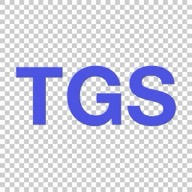
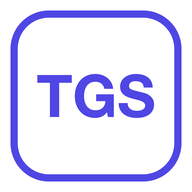
PWA v2.3.6: App-Symbol deckend weiss

diff --git a/index.html b/index.html
@@ -794,7 +794,15 @@
                     </button>
                 </div>
                 <div class="p-6 overflow-y-auto custom-scrollbar space-y-4 text-sm text-slate-600 leading-relaxed">
-                    <p class="text-xs text-slate-400">Kurzfassung der Änderungen. Aktuelle Version: <span class="font-bold text-slate-600">v2.3.5</span>.</p>
+                    <p class="text-xs text-slate-400">Kurzfassung der Änderungen. Aktuelle Version: <span class="font-bold text-slate-600">v2.3.6</span>.</p>
+                    <div>
+                        <div class="flex items-baseline gap-2"><span class="font-extrabold text-indigo-700">v2.3.6</span><span class="text-xs font-bold text-slate-400">02.09.2026</span></div>
+                        <ul class="list-disc pl-5 mt-1 space-y-0.5">
+                            <li><b>Sauberes App-Symbol.</b> Das TGS-Zeichen auf dem Homescreen, auf dem Schreibtisch und im Ladebildschirm hat jetzt einen deckend wei&#223;en Hintergrund. Die alten Symbole waren Bildschirmfotos &#8211; das graue Karomuster des Bildbetrachters steckte als Pixel darin.</li>
+                            <li>Der Ladebildschirm der installierten App ist ebenfalls wei&#223; statt hellgrau, damit das Symbol nicht als Kachel darauf sitzt.</li>
+                            <li><b>Hinweis:</b> Bereits installierte Apps behalten das alte Symbol oft, bis sie einmal entfernt und neu abgelegt werden &#8211; das entscheidet das Betriebssystem, nicht die App.</li>
+                        </ul>
+                    </div>
                     <div>
                         <div class="flex items-baseline gap-2"><span class="font-extrabold text-indigo-700">v2.3.5</span><span class="text-xs font-bold text-slate-400">02.09.2026</span></div>
                         <ul class="list-disc pl-5 mt-1 space-y-0.5">
@@ -1097,7 +1105,7 @@
                             </svg>
                         </button>
                     </h1>
-                    <p class="text-xs text-slate-400 mt-2 uppercase tracking-widest font-bold">Sek I <button onclick="openChangelog()" class="text-slate-300 normal-case tracking-normal font-semibold hover:text-indigo-600 cursor-pointer underline decoration-dotted underline-offset-2 transition-colors" title="Was ist neu? Changelog &amp; Kontakt">· v2.3.5</button></p>
+                    <p class="text-xs text-slate-400 mt-2 uppercase tracking-widest font-bold">Sek I <button onclick="openChangelog()" class="text-slate-300 normal-case tracking-normal font-semibold hover:text-indigo-600 cursor-pointer underline decoration-dotted underline-offset-2 transition-colors" title="Was ist neu? Changelog &amp; Kontakt">· v2.3.6</button></p>
                     <p id="metaDisplay" class="mt-1 text-sm font-bold text-indigo-900"></p>
                     <!-- Stufen-Indikator (nur Arbeitskopie; von stages.js gefüllt) -->
                     <div id="stageIndicator" class="hidden mt-2"></div>

diff --git a/sw.js b/sw.js
@@ -8,7 +8,7 @@
  * Dateien ändern – ein Leerbau erzeugt keine Fehlmeldung „Neue Version verfügbar".
  * Diese Datei selbst wird beim Bauen nie überschrieben.
  */
-const CACHE = 'tgs-abschlussrechner-abb3ddce160a';
+const CACHE = 'tgs-abschlussrechner-9178c1185348';
 
 // Alles relativ ZUM PWA-ORDNER: er enthält seine Bibliotheken selbst (der Build kopiert
 // vendor/ und favicon.png hinein) und lässt sich deshalb allein auf einen Server legen.
